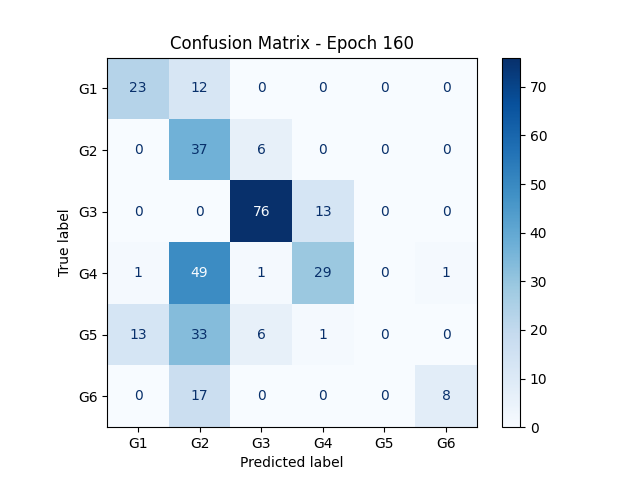
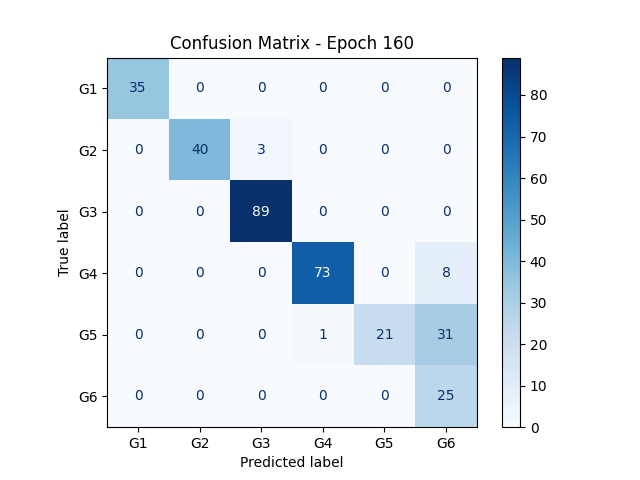
fixes + retrained, still need more data :)

diff --git a/train.py b/train.py
@@ -99,7 +99,7 @@ model = models.Sequential([
     layers.Dense(num_classes, activation='softmax')  # Output layer
 ])
 
-early_stopping = EarlyStopping(monitor='val_loss', patience=70, restore_best_weights=True)
+early_stopping = EarlyStopping(monitor='val_loss', patience=80, restore_best_weights=True)
 # lr_scheduler = ReduceLROnPlateau(monitor='val_loss', factor=0.5, patience=20, min_lr=1e-7, verbose=1)
 # Compile the model with optimizer, loss function, and metrics
 lr_schedule = tf.keras.optimizers.schedules.ExponentialDecay(

diff --git a/server.py b/server.py
@@ -30,7 +30,7 @@ request_queue = queue.Queue()
 
 def inference_thread_func():
     # Load the trained model
-    model = tf.keras.models.load_model('hand_sign_model.keras')
+    model = tf.keras.models.load_model('hand_sign_model_final.keras')
     print("Model loaded in inference thread.")
 
     while True:
